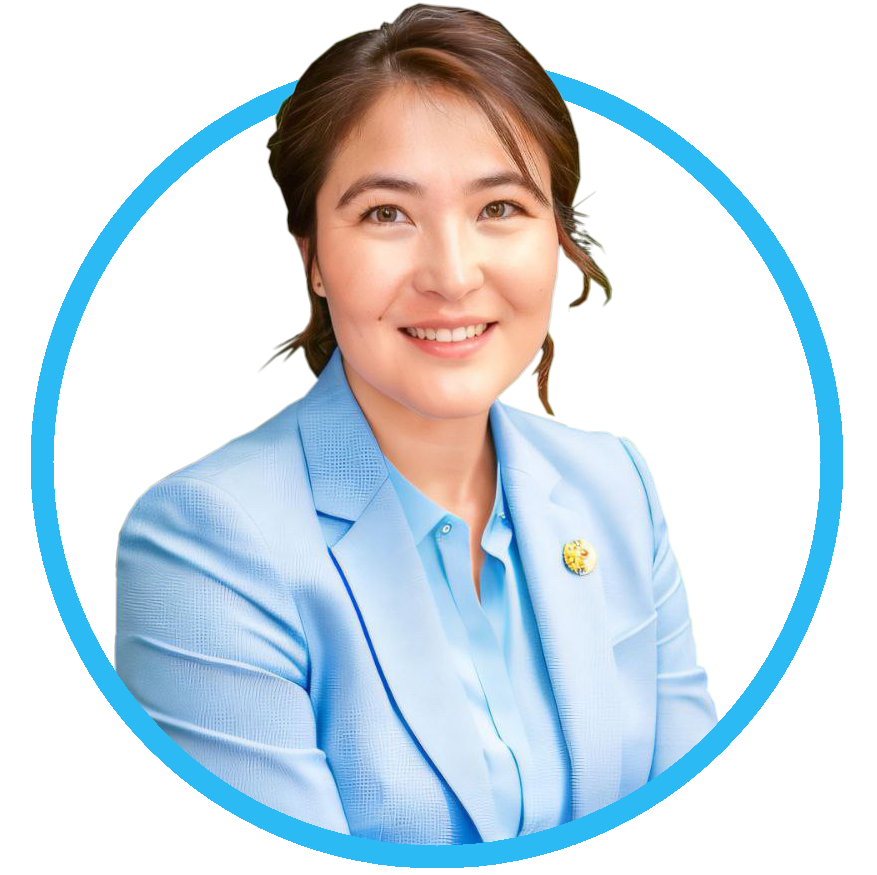
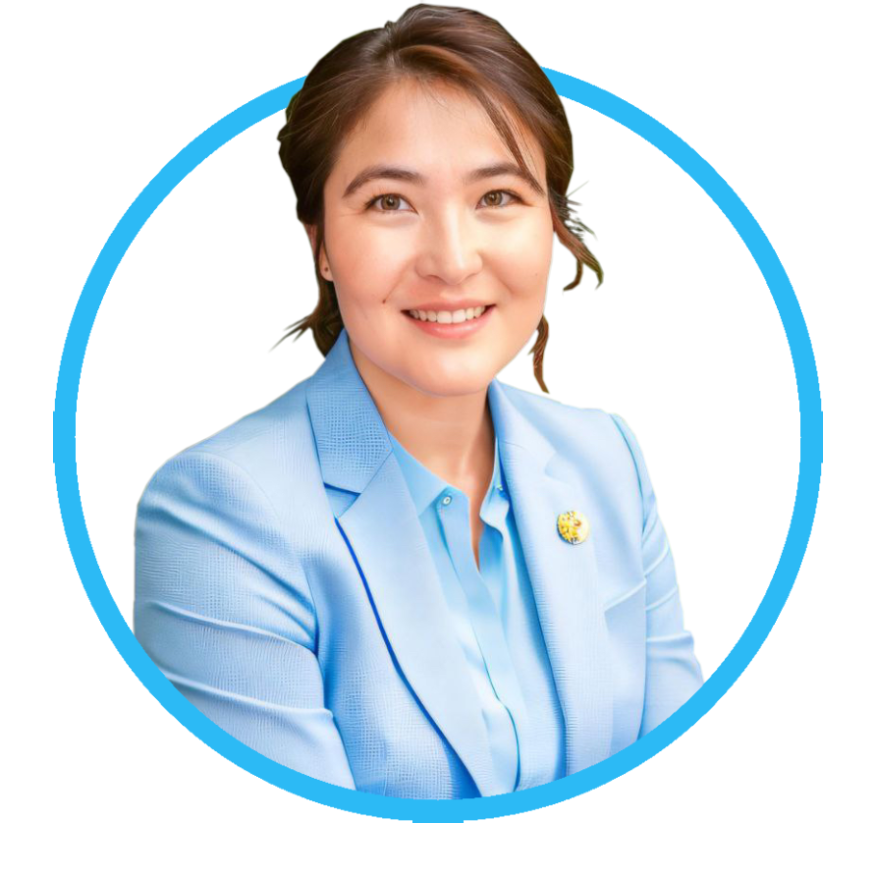
Updates

Changed region(s): [[0.0308, 0.0, 0.9852, 1.0]]

diff --git a/style.css b/style.css
@@ -303,7 +303,7 @@ section {
 }
 
 .about-img img {
-  width: 90%;
+  width: 95%;
   border-radius: 50%;
   /* border: .2rem solid var(--highlight-color); */
 }
